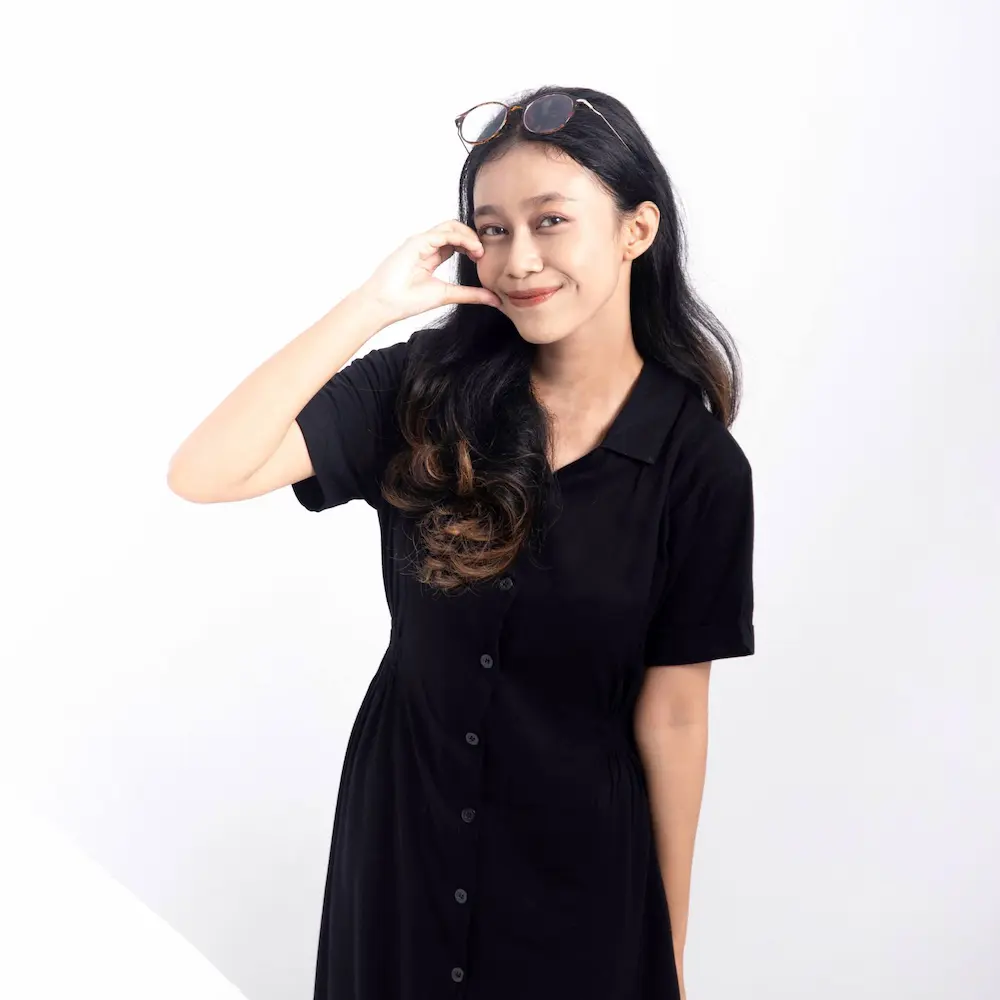
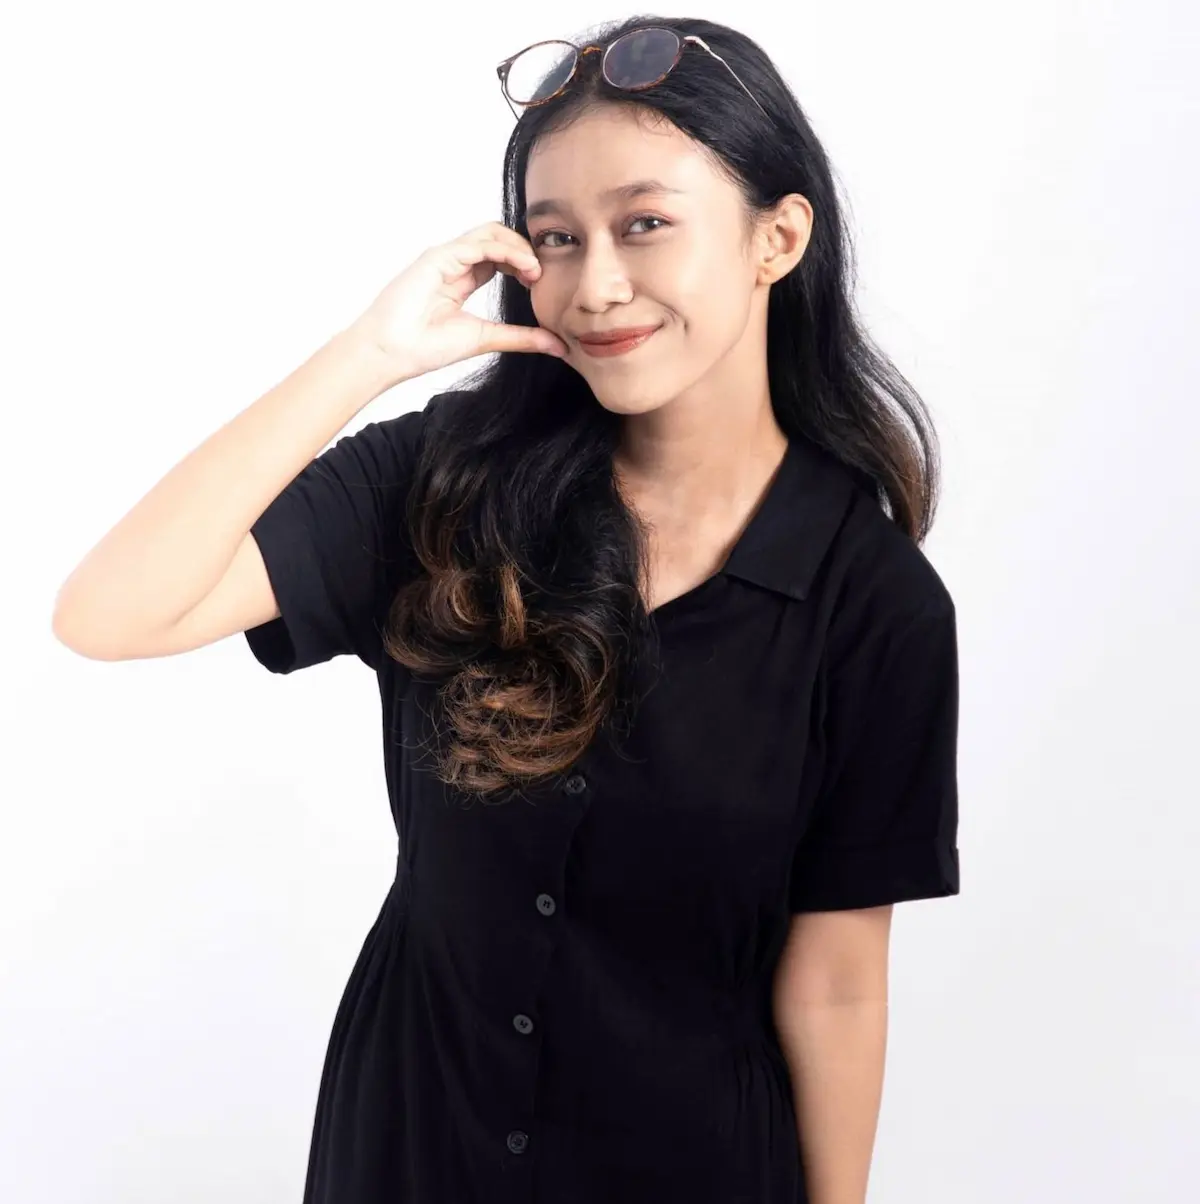
Tambah data copywriter kak hanifah (#33)

diff --git a/public/data/authorData.ts b/public/data/authorData.ts
@@ -10,9 +10,14 @@ import internImages from "./importIndex"; // MASUKKAN LINK GAMBAR INTERN BARU LE
 
 export const authorData: BlogAuthorProps[] = [
   {
+    authorName: "Hanifah Mutiara",
+    imgPath: internImages.hanifahMutiara.src,
+    quotes: `be as you wish to seem`,
+  },
+  {
     authorName: "Puti Cinta Novtazulfa",
     imgPath: internImages.putiCinta.src,
-    quotes: `own your voice`, 
+    quotes: `own your voice`,
   },
   {
     authorName: "Arsha Haroun Al Rasyid",

diff --git a/public/data/importIndex.ts b/public/data/importIndex.ts
@@ -66,8 +66,10 @@ import nurfinkaLailasari from "@/public/assets/img/intern/pingka.jpg";
 import fitriani from "@/public/assets/img/intern/fitriani.webp";
 import putiCinta from "@/public/assets/img/intern/puti-cinta.webp";
 import arshaHaroun from "@/public/assets/img/intern/arsha-haroun.webp";
+import hanifahMutiara from "@/public/assets/img/intern/hanifah-mutiara.webp";
 
 const internImages = {
+  hanifahMutiara,
   fitriani,
   putiCinta,
   arshaHaroun,
